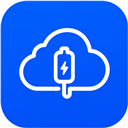
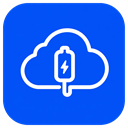
Release stable mychargenet Edge 0.2.6

Changed region(s): [[0.125, 0.2188, 0.875, 0.7812], [0.0, 0.0, 1.0, 1.0], [0.625, 0.25, 0.7188, 0.4062]]

diff --git a/mychargenet_edge/CHANGELOG.md b/mychargenet_edge/CHANGELOG.md
@@ -1,5 +1,10 @@
 # Änderungsprotokoll
 
+## 0.2.6
+
+- Die App wird nach dem erfolgreichen Pilotbetrieb als stabil geführt.
+- Das mychargenet-Icon besitzt transparente Ecken ohne weißen Rand.
+
 ## 0.2.5-pilot
 
 - Das offizielle blaue mychargenet-App-Icon wird jetzt auch im
